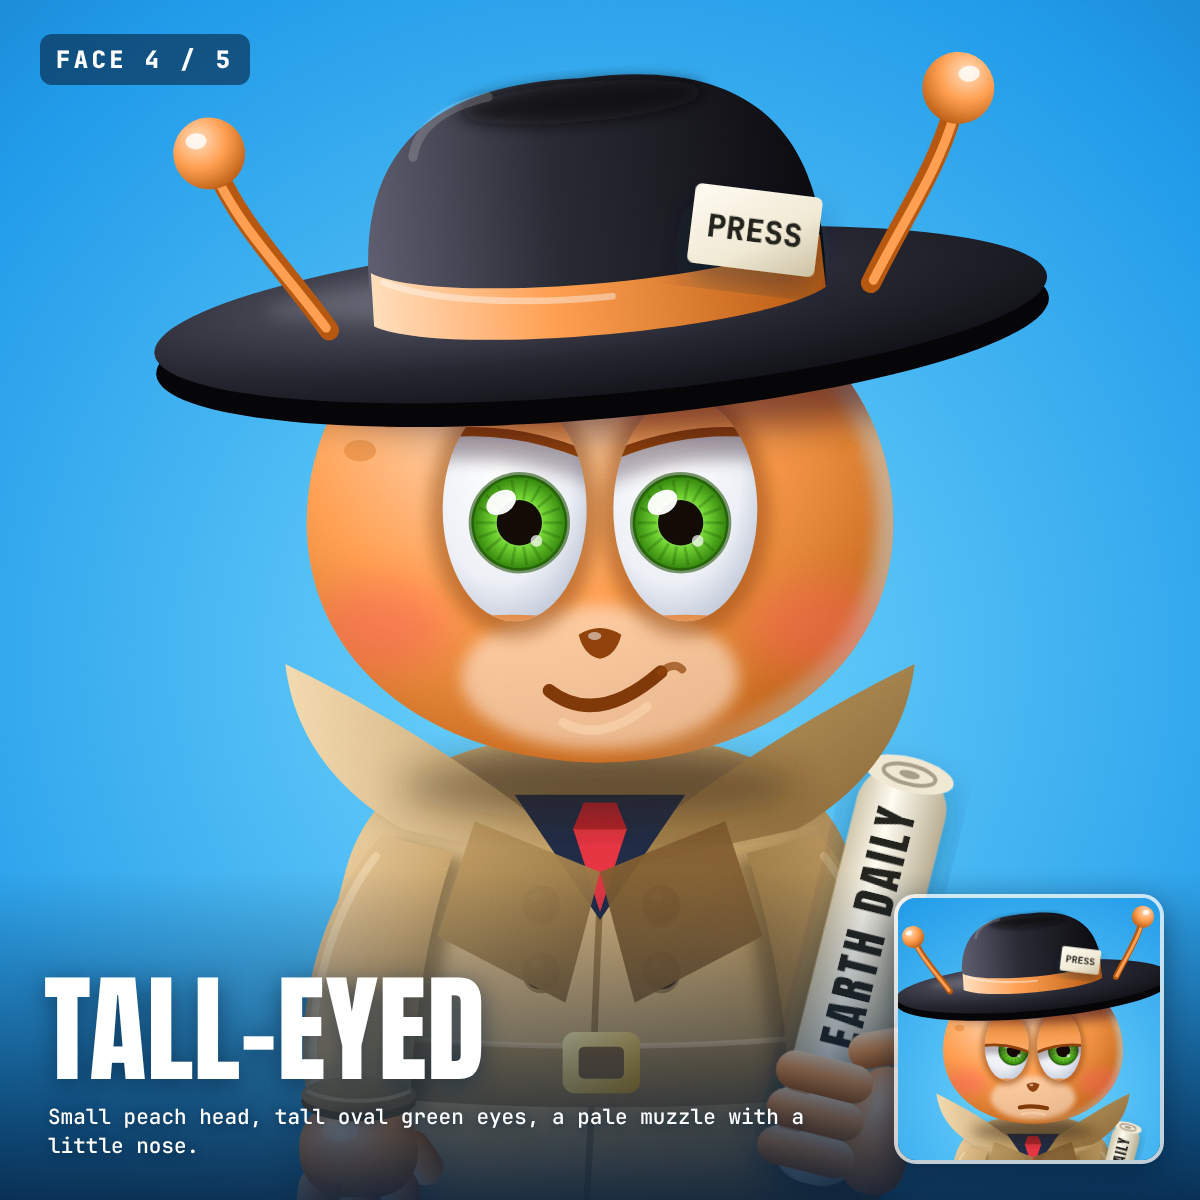
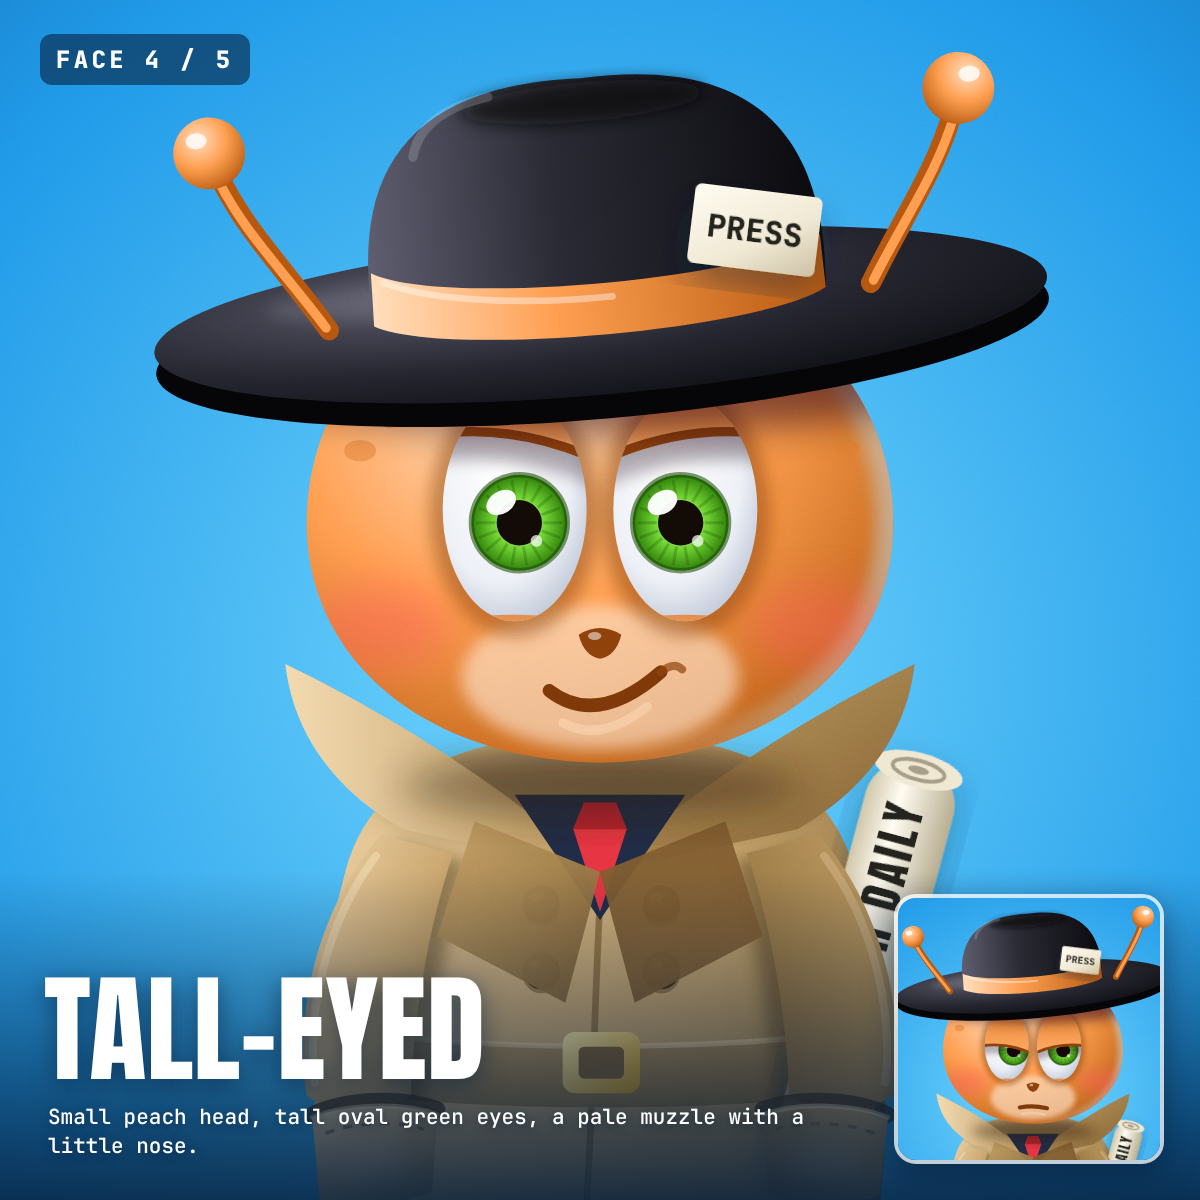
Redraw Peek's hands as single silhouettes and add a hands-in-pockets pose
Hands assembled from separate finger shapes kept reading as parts. Each
pose is now one outline with one light: three finger bumps separated by
soft creases plus a thumb lobe, used for the relaxed mitt, the fist on the
rolled paper and the grip on the open paper.

Adds a resting pose with both hands in the coat pockets and the rolled
paper tucked under the arm, and makes it the default so hands only appear
when he holds the paper.

Claude-Session: https://claude.ai/code/session_01Ey97nkynYhNrAtNqj6XCWE

Changed region(s): [[0.6167, 0.6167, 0.8017, 0.9867], [0.2467, 0.8942, 0.37, 1.0], [0.925, 0.925, 0.9558, 0.9867]]

diff --git a/video/characters/peek3d.js b/video/characters/peek3d.js
@@ -2,7 +2,8 @@
 // a brim shadow across the face. Same expression object as characters.js.
 //   peek3d(expression, { face, paper, size, viewBox })
 // face:  a key of FACES (head shape, eyes, colours, features)
-// paper: "roll" (rolled paper in hand, face visible) | "over" (peeking over) | "holes" (hidden behind, two holes)
+// paper: "pockets" (hands in coat pockets, paper tucked in the belt) | "roll" (paper in hand) |
+//        "over" (peeking over the open paper) | "holes" (hidden behind it, two eye holes)
 
 const IRIS = {
   amber: { c: ["#FFF4B8", "#FFC533", "#D27A00"], rim: "#5E3200" },
@@ -142,29 +143,39 @@ function mouth(e, c) {
     <path d="M${600 + w * 1.2} ${y - rise} q10 -8 16 -2" fill="none" stroke="${c.dark}" stroke-width="6" stroke-linecap="round" opacity=".7"/>`;
 }
 
-// One hand for every pose: three fingers and a thumb, the same thickness and length everywhere.
-const HT = 29, HL = 32, TT = 27;            // finger thickness, visible finger length, thumb thickness
-const PALM_W = HT * 3 + 2, PALM_H = 72;     // the palm is exactly three fingers wide
-const cap = (x, y, w, h, rot, g) => `<rect x="${x}" y="${y}" width="${w}" height="${h}" rx="${Math.min(w, h) / 2}" transform="rotate(${rot} ${x + w / 2} ${y + (rot && h > w ? 0 : h / 2)})" fill="url(#${G}${g})"/>`;
+// Hands are single silhouettes lit as one object: three finger bumps separated by soft creases
+// and a thumb lobe. No separate finger shapes, so every pose reads as the same glove-like hand.
+const crease = (d, lo) => `<path d="${d}" fill="none" stroke="${lo}" stroke-width="3.5" stroke-linecap="round" opacity=".5"/>`;
+const glint = (x, y, rx, ry, a = 0.26) => `<ellipse cx="${x}" cy="${y}" rx="${rx}" ry="${ry}" fill="#fff" opacity="${a}"/>`;
 
-// Relaxed, hanging, seen from the back. dir = +1 puts the thumb on the right.
-const hand = (cx, cy, dir, lo) => `<g filter="url(#${G}drop)">
-  ${cap(cx + dir * 33 - TT / 2, cy - 12, TT, 44, -dir * 34, "fing")}
-  ${cap(cx - HT - HT / 2, cy + 14, HT, HL + 19, 7, "fing")}${cap(cx - HT / 2, cy + 18, HT, HL + 19, 0, "fing")}${cap(cx + HT / 2, cy + 14, HT, HL + 19, -7, "fing")}
-  <rect x="${cx - PALM_W / 2}" y="${cy - PALM_H / 2}" width="${PALM_W}" height="${PALM_H}" rx="33" fill="url(#${G}ball)"/>
-  <path d="M${cx - HT / 2} ${cy + 27} v9 M${cx + HT / 2} ${cy + 27} v9" stroke="${lo}" stroke-width="3.5" stroke-linecap="round" opacity=".45"/>
-  <ellipse cx="${cx - 14}" cy="${cy - 14}" rx="14" ry="8" fill="#fff" opacity=".28"/></g>`;
+// Relaxed mitt hanging from a cuff, seen from the back. d = +1 puts the thumb on the right.
+function mitt(cx, cy, d, lo) {
+  const X = (x) => cx + x * d, Y = (y) => cy + y, P = (x, y) => `${X(x)} ${Y(y)}`;
+  const shape = `M${P(-30, -42)} C${P(-46, -34)} ${P(-50, 4)} ${P(-42, 26)} C${P(-40, 46)} ${P(-20, 52)} ${P(-15, 32)} C${P(-12, 58)} ${P(12, 58)} ${P(15, 32)} C${P(20, 52)} ${P(40, 46)} ${P(42, 26)} C${P(50, 40)} ${P(66, 36)} ${P(66, 18)} C${P(66, 0)} ${P(54, -16)} ${P(40, -22)} C${P(38, -32)} ${P(34, -40)} ${P(30, -42)} Z`;
+  return `<g filter="url(#${G}drop)"><path d="${shape}" fill="url(#${G}ball)"/>
+    ${crease(`M${P(-15, 32)} Q${P(-17, 20)} ${P(-14, 10)}`, lo)}${crease(`M${P(15, 32)} Q${P(17, 20)} ${P(14, 10)}`, lo)}${crease(`M${P(42, 26)} Q${P(36, 16)} ${P(38, 6)}`, lo)}
+    ${glint(X(-14), Y(-18), 17, 9, 0.3)}${glint(X(-29), Y(36), 6, 4)}${glint(X(-2), Y(44), 6, 4)}${glint(X(26), Y(36), 6, 4)}</g>`;
+}
 
-// Closed around a vertical tube whose centre line is x = 0; the hand comes in from the right.
-const fist = (y, lo) => `<g filter="url(#${G}drop)">
-  <rect x="20" y="${y - 4}" width="48" height="${PALM_W + 8}" rx="22" fill="url(#${G}ball)"/>
-  ${cap(4, y - 30, 54, TT, -24, "fingH")}
-  ${[0, 1, 2].map((k) => cap(-44, y + 1 + k * HT, HL + 42, HT, 0, "fingH")).join("")}
-  <path d="M-30 ${y + HT + 1} h14 M-30 ${y + HT * 2 + 1} h14" stroke="${lo}" stroke-width="3" stroke-linecap="round" opacity=".4"/></g>`;
+// A fist closed round a vertical tube whose centre line is x = 0; the hand arrives from the right.
+function fist(y, lo) {
+  const shape = `M38 ${y} C54 ${y + 2} 58 ${y + 24} 58 ${y + 46} C58 ${y + 74} 50 ${y + 93} 30 ${y + 93} L-30 ${y + 93} C-54 ${y + 93} -54 ${y + 62} -30 ${y + 62} C-54 ${y + 62} -54 ${y + 31} -30 ${y + 31} C-54 ${y + 31} -54 ${y} -30 ${y} C-6 ${y - 4} 16 ${y - 4} 38 ${y} Z`;
+  const thumb = `M46 ${y + 8} C32 ${y - 20} -8 ${y - 16} -24 ${y + 2} C-32 ${y + 14} -22 ${y + 28} -8 ${y + 24} C10 ${y + 18} 32 ${y + 24} 46 ${y + 8} Z`;
+  return `<g filter="url(#${G}drop)"><path d="${shape}" fill="url(#${G}ball)"/>
+    ${crease(`M-30 ${y + 62} Q4 ${y + 58} 36 ${y + 64}`, lo)}${crease(`M-30 ${y + 31} Q4 ${y + 28} 36 ${y + 34}`, lo)}
+    ${glint(-38, y + 46, 5, 8)}${glint(-38, y + 77, 5, 8)}</g>
+    <g filter="url(#${G}drop)"><path d="${thumb}" fill="url(#${G}ball)"/>${glint(-4, y - 2, 14, 6, 0.3)}</g>`;
+}
 
-// Holding the edge of a sheet at x: knuckles behind the paper, three fingertips over the front.
-const gripBack = (x, y, side) => `<rect x="${side < 0 ? x - 34 : x - 8}" y="${y - 6}" width="42" height="${PALM_W + 12}" rx="20" fill="url(#${G}ball)"/>`;
-const grip = (x, y, side) => `<g filter="url(#${G}drop)">${[0, 1, 2].map((k) => cap(side < 0 ? x - 14 : x - HL, y + 1 + k * HT, HL + 14, HT, side * 3, "fingH")).join("")}</g>`;
+// Fingertips over the edge of a sheet at x. d = +1 for the left edge (fingers point right).
+const gripBack = (x, y, d) => `<rect x="${d > 0 ? x - 40 : x - 6}" y="${y - 6}" width="46" height="105" rx="22" fill="url(#${G}ball)"/>`;
+function grip(x, y, d, lo) {
+  const X = (v) => x + v * d;
+  const shape = `M${X(-16)} ${y} L${X(22)} ${y} C${X(50)} ${y} ${X(50)} ${y + 31} ${X(22)} ${y + 31} C${X(50)} ${y + 31} ${X(50)} ${y + 62} ${X(22)} ${y + 62} C${X(50)} ${y + 62} ${X(50)} ${y + 93} ${X(22)} ${y + 93} L${X(-16)} ${y + 93} C${X(-26)} ${y + 93} ${X(-26)} ${y} ${X(-16)} ${y} Z`;
+  return `<g filter="url(#${G}drop)"><path d="${shape}" fill="url(#${G}ball)"/>
+    ${crease(`M${X(22)} ${y + 31} H${X(-8)}`, lo)}${crease(`M${X(22)} ${y + 62} H${X(-8)}`, lo)}
+    ${glint(X(26), y + 12, 7, 5)}${glint(X(26), y + 43, 7, 5)}${glint(X(26), y + 74, 7, 5)}</g>`;
+}
 
 function newspaper(top, holes, c) {
   const h = 900 - top, rows = (x, w, y0, n) => Array.from({ length: n }, (_, i) => `<rect x="${x}" y="${y0 + i * 22}" width="${w}" height="9" rx="2" fill="#A39A84"/>`).join("");
@@ -183,10 +194,9 @@ function newspaper(top, holes, c) {
   </g>${rims}</g>`;
 }
 
-export function peek3d(e, { face = "A", paper = "roll", size = 1200, viewBox = "0 0 1200 1200" } = {}) {
+export function peek3d(e, { face = "A", paper = "pockets", size = 1200, viewBox = "0 0 1200 1200" } = {}) {
   const c = FACES[face];
   const [hi, mid, lo] = c.skin;
-  const showArms = paper === "roll";
   const arm = "M436 636 C388 690 370 772 380 832 C402 846 438 846 458 832 C460 772 472 702 490 650 Z";
   const flip = (m, inner) => `<g ${m ? 'transform="translate(1200,0) scale(-1,1)"' : ""}>${inner}</g>`;
   const sleeve = (m) => flip(m, `<path d="${arm}" transform="translate(12 6)" fill="#4A3418" opacity=".5" filter="url(#${G}b6)"/><path d="${arm}" fill="url(#${G}coat${m ? "2" : ""})"/><path d="M432 652 C394 702 380 770 386 822" fill="none" stroke="#F6E0B8" stroke-width="6" stroke-linecap="round" opacity="${m ? 0.25 : 0.5}"/>`);
@@ -208,10 +218,16 @@ export function peek3d(e, { face = "A", paper = "roll", size = 1200, viewBox = "
   </g>
   <rect x="572" y="784" width="58" height="46" rx="9" fill="url(#${G}gold)"/><rect x="584" y="795" width="34" height="24" rx="4" fill="#7B5A2E"/>
   ${[[556, 688], [646, 688], [556, 738], [646, 738]].map(([x, y]) => `<circle cx="${x}" cy="${y + 3}" r="14" fill="#5B4220" opacity=".5"/><circle cx="${x}" cy="${y}" r="14" fill="url(#${G}btn)"/><ellipse cx="${x - 4}" cy="${y - 5}" rx="5" ry="3" fill="#fff" opacity=".35"/>`).join("")}`;
-  const roll = `<g transform="translate(792 752) rotate(14)">
-    <g filter="url(#${G}drop)"><rect x="-34" y="-170" width="68" height="320" rx="30" fill="url(#${G}roll)"/><ellipse cx="0" cy="-166" rx="34" ry="13" fill="#EFE7D1"/><ellipse cx="0" cy="-166" rx="20" ry="7" fill="none" stroke="#A39A84" stroke-width="3"/><ellipse cx="0" cy="-166" rx="8" ry="3" fill="#A39A84"/>
-    <text transform="rotate(-90)" x="48" y="12" text-anchor="middle" font-family="Anton, Impact, sans-serif" font-size="34" letter-spacing="3" fill="#22201C">EARTH DAILY</text></g>
-    ${fist(54, lo)}</g>`;
+  const tube = `<rect x="-34" y="-170" width="68" height="320" rx="30" fill="url(#${G}roll)"/><ellipse cx="0" cy="-166" rx="34" ry="13" fill="#EFE7D1"/><ellipse cx="0" cy="-166" rx="20" ry="7" fill="none" stroke="#A39A84" stroke-width="3"/><ellipse cx="0" cy="-166" rx="8" ry="3" fill="#A39A84"/>
+    <text transform="rotate(-90)" x="48" y="12" text-anchor="middle" font-family="Anton, Impact, sans-serif" font-size="34" letter-spacing="3" fill="#22201C">EARTH DAILY</text>`;
+  const roll = `<g transform="translate(792 752) rotate(14)"><g filter="url(#${G}drop)">${tube}</g>${fist(54, lo)}</g>`;
+  // Hands-in-pockets pose: the rolled paper is tucked under the arm, the sleeves vanish behind pocket flaps.
+  const tucked = `<g transform="translate(796 748) rotate(15)" filter="url(#${G}drop)">${tube}</g>`;
+  const flap = (m) => flip(m, `<path d="M384 846 C408 834 452 832 478 842" fill="none" stroke="#3D2A12" stroke-width="12" stroke-linecap="round" opacity=".75"/>
+    <path d="M384 848 C408 838 452 836 478 846 L474 904 C450 914 410 914 390 906 Z" fill="url(#${G}coat${m ? "2" : ""})"/>
+    <path d="M384 848 C408 838 452 836 478 846" fill="none" stroke="#F0D3A2" stroke-width="3.5" stroke-linecap="round" opacity=".55"/>
+    <path d="M394 860 C414 852 448 850 468 857" fill="none" stroke="#7B5A2E" stroke-width="2.5" stroke-dasharray="7 7" opacity=".7"/>
+    <ellipse cx="430" cy="882" rx="26" ry="14" fill="#fff" opacity=".1" filter="url(#${G}b6)"/>`);
   const collar = `
   <path d="M600 664 L452 632 C400 602 370 560 364 508 C430 540 520 592 600 664 Z" fill="url(#${G}collar)"/>
   <path d="M600 664 L748 632 C800 602 830 560 836 508 C770 540 680 592 600 664 Z" fill="url(#${G}coat2)"/>
@@ -246,13 +262,14 @@ export function peek3d(e, { face = "A", paper = "roll", size = 1200, viewBox = "
     ${antenna(false)}${antenna(true)}
   </g>`;
   const low = Math.max(...c.eyes.map((q) => q.cy + q.ry));
-  const sheet = (top, holes, y) => gripBack(292, y, -1) + gripBack(908, y - 8, 1) + newspaper(top, holes, c) + grip(292, y, -1, lo) + grip(908, y - 8, 1, lo);
+  const sheet = (top, holes, y) => gripBack(292, y, 1) + gripBack(908, y - 8, -1) + newspaper(top, holes, c) + grip(292, y, 1, lo) + grip(908, y - 8, -1, lo);
   const paperLayer = paper === "over" ? sheet(low + 4, false, low + 110) : paper === "holes" ? sheet(292, true, 560) : "";
   const svg = `<svg xmlns="http://www.w3.org/2000/svg" viewBox="${viewBox}" width="${size}" height="${size}">${defs(c)}
   <rect width="1200" height="1200" fill="url(#${G}bg)"/>
   <ellipse cx="600" cy="1080" rx="900" ry="200" fill="#8FE0FF" opacity=".22" filter="url(#${G}b28)"/>
   ${body}
-  ${showArms ? sleeve(false) + hand(419, 872, 1, lo) + cuff(false) + sleeve(true) + cuff(true) + roll : ""}
+  ${paper === "roll" ? sleeve(false) + mitt(419, 872, 1, lo) + cuff(false) + sleeve(true) + cuff(true) + roll : ""}
+  ${paper === "pockets" ? tucked + sleeve(false) + sleeve(true) + flap(false) + flap(true) : ""}
   ${collar}${head}${paperLayer}${hat}
   <rect width="1200" height="1200" filter="url(#${G}grain)" opacity=".1" style="mix-blend-mode:overlay"/>
   </svg>`;

diff --git a/video/characters/pear.html b/video/characters/pear.html
@@ -16,11 +16,11 @@ import { peek3d } from "/characters/peek3d.js";
 const E = { idle: { lid: 0.16, look: 0, mouth: "smirk" }, talk: { lid: 0.06, look: 0, mouth: "talk" }, deadpan: { lid: 0.6, look: 0.85, mouth: "flat" } };
 const root = document.getElementById("root"), F = "pear";
 const add = (id, html, cls = "card") => { const d = document.createElement("div"); d.className = cls; d.id = "card-" + id; d.innerHTML = html; root.appendChild(d); };
-add("pear-hero", `${peek3d(E.idle, { face: F })}<div class="title">PEEK</div><div class="sub">FIELD AGENT, EARTH<br>PEAR FACE</div>`);
-add("pear-closeup", `${peek3d(E.idle, { face: F, viewBox: "200 60 800 800" })}<div class="tag">CLOSE-UP</div>`);
-add("pear-hands", [["roll", "300 770 240 240", "RELAXED"], ["roll", "690 740 240 240", "HOLDING THE ROLL"], ["over", "180 470 240 240", "ON THE PAPER, LEFT"], ["over", "780 462 240 240", "ON THE PAPER, RIGHT"]]
+add("pear-pockets", `${peek3d(E.idle, { face: F, paper: "pockets" })}<div class="title">PEEK</div><div class="sub">OPTION 2<br>HANDS IN POCKETS</div>`);
+add("pear-hands-out", `${peek3d(E.idle, { face: F, paper: "roll" })}<div class="title">PEEK</div><div class="sub">OPTION 1<br>GLOVE HANDS</div>`);
+add("pear-hands", [["roll", "300 770 240 240", "RELAXED"], ["roll", "690 740 240 240", "HOLDING THE ROLL"], ["over", "180 470 240 240", "ON THE PAPER"], ["pockets", "300 720 240 240", "IN THE POCKET"]]
   .map(([p, vb, l]) => `<div class="cell">${peek3d(E.idle, { face: F, paper: p, size: 600, viewBox: vb })}<div class="tag">${l}</div></div>`).join(""), "card grid");
-add("pear-states", [[E.talk, "roll", "TALKING"], [E.deadpan, "roll", "DEADPAN"], [E.idle, "over", "PEEKING OVER"], [E.idle, "holes", "BEHIND THE PAPER"]]
+add("pear-states", [[E.talk, "pockets", "TALKING"], [E.deadpan, "pockets", "DEADPAN"], [E.idle, "over", "PEEKING OVER"], [E.idle, "holes", "BEHIND THE PAPER"]]
   .map(([e, p, l]) => `<div class="cell">${peek3d(e, { face: F, paper: p, size: 600 })}<div class="tag">${l}</div></div>`).join(""), "card grid");
 await document.fonts.load('120px "Anton"'); await document.fonts.ready; window.__ready = true;
 </script></body></html>

diff --git a/video/README.md b/video/README.md
@@ -133,8 +133,9 @@ and optional extras (ears, muzzle, brow, nose bump).
 | `block` | Square steel-blue head, heavy brow, small ember eyes |
 
 `paper` is
-`"roll"` (rolled newspaper in hand, face visible), `"over"` (peeking over the
-paper) or `"holes"` (hidden behind it, two eye holes). The full-body design
+`"pockets"` (hands in pockets, paper under the arm), `"roll"` (rolled newspaper
+in hand), `"over"` (peeking over the paper) or `"holes"` (hidden behind it, two
+eye holes). The full-body design
 adds a tan trench coat, a PRESS card in the hat band and short legs.
 
 ```bash
@@ -144,10 +145,16 @@ node characters/render-sheet.cjs characters/peek3d peek3d.html
 ### The picked face: `pear`
 
 `characters/pear.html` renders the chosen face on its own: full body, a
-close-up, a hands close-up and four states. Every hand pose is built from one spec (`HT`, `HL`, `TT`,
-`PALM_W` in `peek3d.js`: three fingers and a thumb, one thickness, one length), so
-the relaxed hand, the fist around the rolled newspaper and the fingers over
-the edge of the open paper all match. Faces with `teeth: true` get two front teeth under
+close-up, a hands close-up and four states. Hands are drawn as single silhouettes lit as one object, with three finger
+bumps separated by soft creases and a thumb lobe. Building them from separate
+finger shapes made them read as assembled parts no matter how the sizes were
+tuned. The same glove-like hand appears relaxed (`mitt`), closed round the
+rolled paper (`fist`) and over the edge of the open paper (`grip`).
+
+The default resting pose is `paper: "pockets"`: hands in the coat pockets
+with the rolled paper tucked under the arm, so the hands only appear when he
+actually holds the paper. `paper: "roll"` keeps the hands-out version.
+Faces with `teeth: true` get two front teeth under
 the lip and a full upper row when talking.
 
 ```bash
